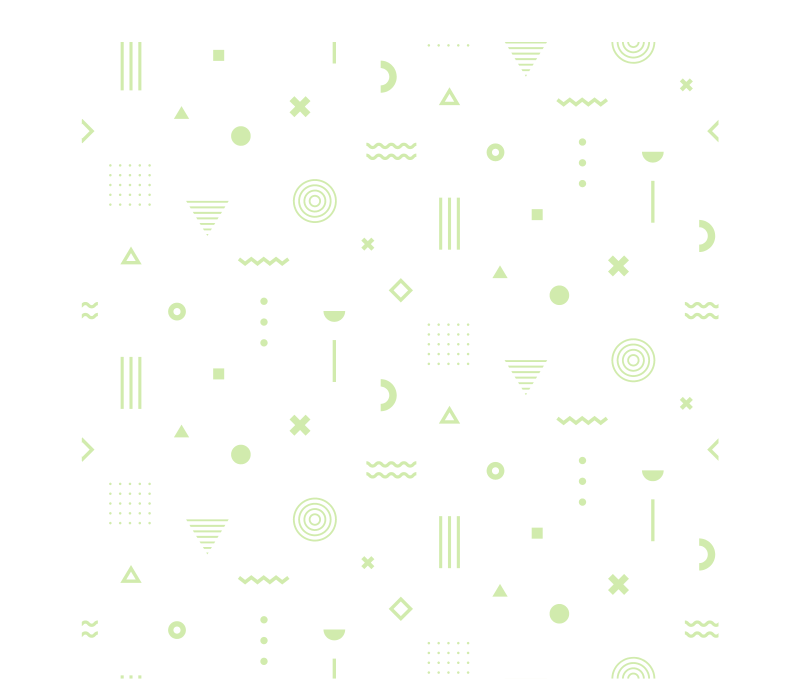
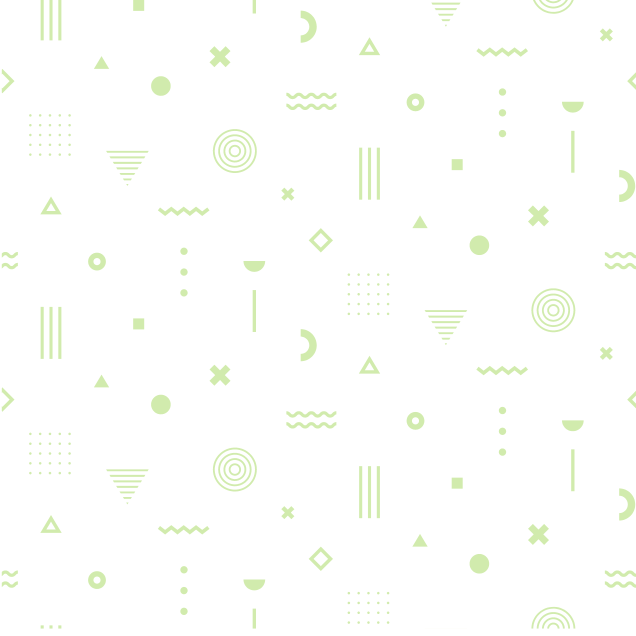
feat : 커뮤니티 섹션

diff --git a/components/sections/community/community-board.tsx b/components/sections/community/community-board.tsx
@@ -1,0 +1,78 @@
+import { Button } from "@/components/ui/button";
+import { cn, getPostsMetadata } from "@/lib/utils";
+import { PlusIcon } from "@radix-ui/react-icons";
+import Link from "next/link";
+
+export default function CommunityBoard() {
+  const news = getPostsMetadata("markdown/news/").slice(0, 5);
+  const notices = getPostsMetadata("markdown/notice/").slice(0, 5);
+
+  return (
+    <div className="flex w-full pt-4 rounded-2xl">
+      <div className="bg-olive-drab-900 flex-1 p-10 pb-24 rounded-l-xl">
+        <div className="text-2xl flex items-center justify-between pb-10 text-slate-50">
+          <h2 className="text-2xl font-bold">공지사항</h2>
+          <Button
+            size="icon"
+            variant="outline"
+            className="rounded-full text-olive-drab-900 hover:text-white hover:bg-olive-drab-900 border-2"
+          >
+            <PlusIcon />
+          </Button>
+        </div>
+        <Posts posts={notices} category="notice" theme="primary" />
+      </div>
+
+      <div className="bg-white flex-1 p-10 text-olive-drab-900 rounded-r-xl">
+        <div className="text-2xl flex items-center justify-between pb-10 ">
+          <h2 className="text-2xl font-bold">병원소식</h2>
+          <Button
+            size="icon"
+            variant="outline"
+            className="rounded-full bg-olive-drab-900 text-white hover:text-olive-drab-900 hover:bg-white border-2 border-olive-drab-800"
+          >
+            <PlusIcon />
+          </Button>
+        </div>
+        <Posts posts={news} category="news" theme="light" />
+      </div>
+    </div>
+  );
+}
+
+const Posts = ({
+  theme,
+  category,
+  posts,
+}: {
+  theme: "primary" | "light";
+  category: string;
+  posts: {
+    title: any;
+    date: any;
+    author: any;
+    important: any;
+    slug: string;
+  }[];
+}) => {
+  return (
+    <ul
+      className={cn(
+        theme === "primary" ? "text-slate-50" : "text-olive-drab-900",
+        "flex flex-col gap-4 divide-y"
+      )}
+    >
+      {posts.map((notice) => (
+        <li key={notice.slug}>
+          <Link
+            href={`/community/${category}/${notice.slug}`}
+            className="flex items-center justify-between mt-4 py-2"
+          >
+            <p>{notice.title}</p>
+            <p>{notice.date}</p>
+          </Link>
+        </li>
+      ))}
+    </ul>
+  );
+};

diff --git a/components/sections/cases/casesSection.tsx b/components/sections/cases/casesSection.tsx
@@ -1,15 +1,11 @@
 import Container from "@/components/common/container";
 import SectionTitle from "@/components/common/section-title";
-import { Button } from "@/components/ui/button";
 import { HoverEffect } from "@/components/ui/card-hover-effect";
 import { CASES } from "@/constants/cases";
-import { NAME } from "@/constants/general-info";
-import { ArrowRightIcon } from "@radix-ui/react-icons";
-import Link from "next/link";
 
 export default function CasesSection() {
   return (
-    <div className="py-20">
+    <div className="py-20 mask">
       <SectionTitle link="/community/case" theme="light" title="진료케이스" />
 
       <Container>

diff --git a/components/sections/community/community-seection.tsx b/components/sections/community/community-seection.tsx
@@ -1,5 +1,14 @@
 import SectionTitle from "@/components/common/section-title";
+import CommunityBoard from "./community-board";
+import Container from "@/components/common/container";
 
 export default function CommunitySection() {
-  return <div className="h-screen bg-slate-950">{/* <SectionTitle /> */}</div>;
+  return (
+    <div className="bg-slate-950 py-20">
+      <SectionTitle link="/community/notice" theme="dark" title="커뮤니티" />
+      <Container>
+        <CommunityBoard />
+      </Container>
+    </div>
+  );
 }

diff --git a/components/common/sub-contents-menus.tsx b/components/common/sub-contents-menus.tsx
@@ -13,7 +13,7 @@ export default function SubContentsMenus({
   }[];
 }) {
   return (
-    <div className="h-[560px] subcontents_bg bg-center ">
+    <div className="h-[560px] mask bg-center ">
       <Container>
         <div className="flex justify-between items-center h-full text-white">
           {subcontents.map((contents) => (

diff --git a/app/globals.css b/app/globals.css
@@ -127,7 +127,6 @@ html {
   background-image: url("../public/unsplash/time-subbanner.jpg");
 }
 
-/* subcontens */
-.subcontents_bg {
+.mask {
   background-image: url("../public/mask.png");
 }
